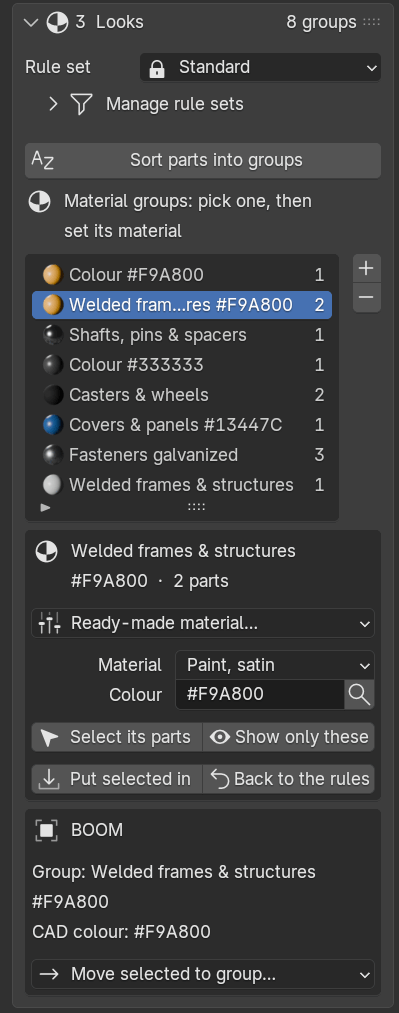
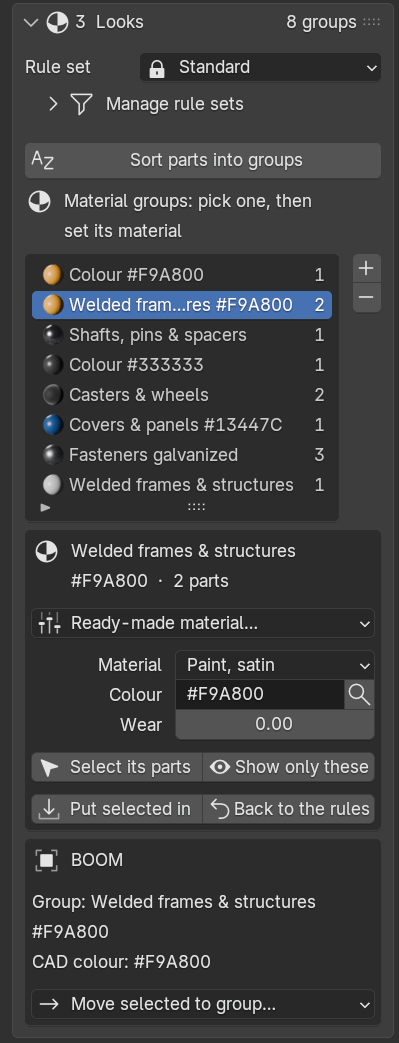
0046: version 0.2.39, CHANGELOG, panel 3 Looks picture with the Wear slider
Claude-Session: https://claude.ai/code/session_01LGPBd57vfKZf1y7Yy3yXeZ

diff --git a/fresing_render/blender/handlers.py b/fresing_render/blender/handlers.py
@@ -118,7 +118,7 @@ def _on_load(_dummy=None):
                 from . import joints
                 joints.upgrade_drivers(sc)               # before 0.2.30: joints snapped to 0 within 0.1 mm
                 from . import logic
-                logic.upgrade_looks(sc)                  # before 0.2.38: materials get the new looks (0046)
+                logic.upgrade_looks(sc)                  # before 0.2.39: materials get the new looks (0046)
                 from . import rule_sets
                 if rule_sets.on_load(sc):        # no rule set yet (before 0.2.13); untouched rules of before 0.2.8
                     sc.fresing.last_message = ("The sorting rules are now the new defaults (part types, "

diff --git a/fresing_render/blender/materials.py b/fresing_render/blender/materials.py
@@ -34,7 +34,7 @@ def _set(node, name, value):
 
 
 # Raise when the node trees change: materials built by an older version are rebuilt (also on load), keeping
-# every group's material, colour and wear. 1 = up to 0.2.37, 2 = task 0046 (marks, peel, sheen, wear).
+# every group's material, colour and wear. 1 = up to 0.2.38, 2 = task 0046 (marks, peel, sheen, wear).
 LOOK_VERSION = 2
 PROP_LOOK = "fr_look_version"
 # a part's own axes, stored on its mesh (every copy shares it): read by the shader's machining marks

diff --git a/fresing_render/pccheck/checks.py b/fresing_render/pccheck/checks.py
@@ -241,7 +241,7 @@ def decals_add(ctx):
     return f"{len(shown)} decals; render {info['seconds']} s"
 
 
-@line("looks.materials", "Materials: the material sheet", "0.2.38",
+@line("looks.materials", "Materials: the material sheet", "0.2.39",
       what="Every ready-made material on a block with a chamfer, a disc and a shaft, rendered with Cycles: "
            "judge metals, paint, rubber and glass in one picture")
 def looks_materials(ctx):

diff --git a/fresing_render/__init__.py b/fresing_render/__init__.py
@@ -6,7 +6,7 @@ The package is split so the logic can be tested without Blender:
     blender/   everything that talks to Blender (bpy)
 """
 
-__version__ = "0.2.38"
+__version__ = "0.2.39"
 
 _modules = []
 

diff --git a/CHANGELOG.md b/CHANGELOG.md
@@ -5,6 +5,26 @@ What changed in each version, in plain words. Newest first. The app shows these 
 the release page (tag `v<version>`) shows the commit; before that, "Commit" is the Git commit the
 installer of that version was built from.
 
+## 0.2.39 – 9 Nov 2026 – better materials: real metals, paint, wear (task 0046)
+
+Looks
+- **Real metals**: new **Steel, ground** (fine straight grinding lines along the part, for ways and shafts),
+  **Steel, turned** (fine rings round the part's axis) and **Hydraulic chrome rod**. **Aluminium, machined** has faint
+  face-milling arcs, **Stainless, brushed** now really looks brushed (along the part's longest side). The marks come
+  from each part's own shape, so every copy looks the same; they are finer than a millimetre and only show close up.
+- **Anodised aluminium** (natural, black, colour) has the soft satin sheen of real anodising.
+- **Cast iron** looks cast (rough, slightly mottled); new **Cast iron, painted** (any RAL colour over the casting).
+- **Paint**: gloss, satin and marine paint have a little orange peel, powder coat a finer structure.
+- **Rubber** is no longer pure black (soft sheen, a little dust); matte plastic has a fine moulded grain; **glass and
+  polycarbonate** now look like glass in Fast preview (EEVEE) too.
+- **Wear** slider per material group (3 Looks, under the material; 0 = new, the default): sharp edges turn lighter or
+  bare metal in places and corners get a little dirt. Edges in Cycles; Fast preview shows only the dirt.
+- **CAD names**: "Steel - Polished", "Steel, ground", "turned", "Hard chrome", "Piston rod", "Gray Iron" and their
+  Dutch and German words pick the new materials.
+- **Old projects** get the new looks when you open them; every group keeps its material and colour.
+- Renders are not noticeably slower without wear (test crane, Cycles HD: +0.6 %); wear costs extra render time.
+- PC check: new line **Materials: the material sheet** – every material in one picture, to judge on your PC.
+
 ## 0.2.38 – 9 Nov 2026 – tool library fixes: BT30, tool lengths, tip and corners (task 0049)
 
 - Tools: **BT30** is a holder choice (flange Ø46, 7:24 taper, pull stud).
